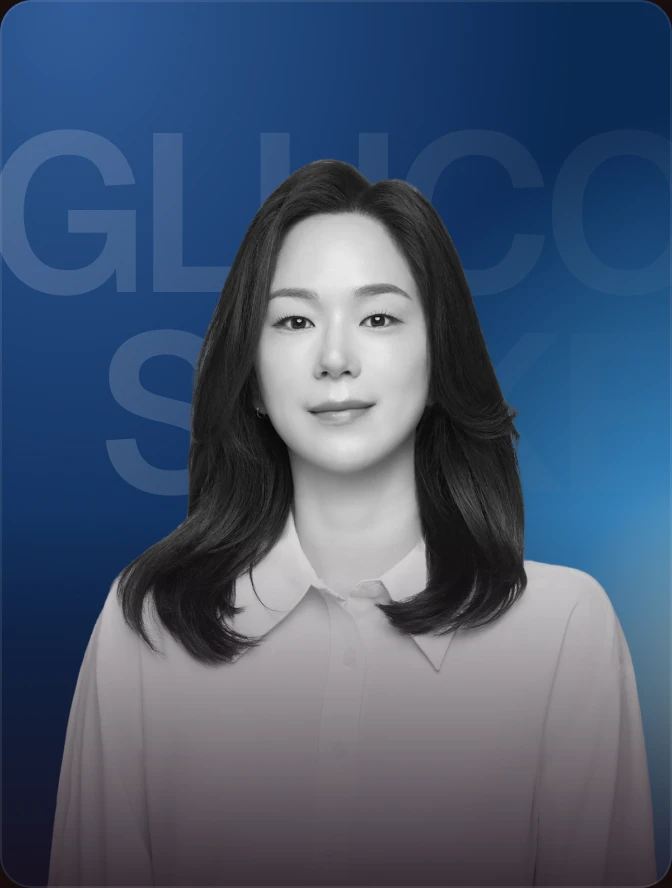
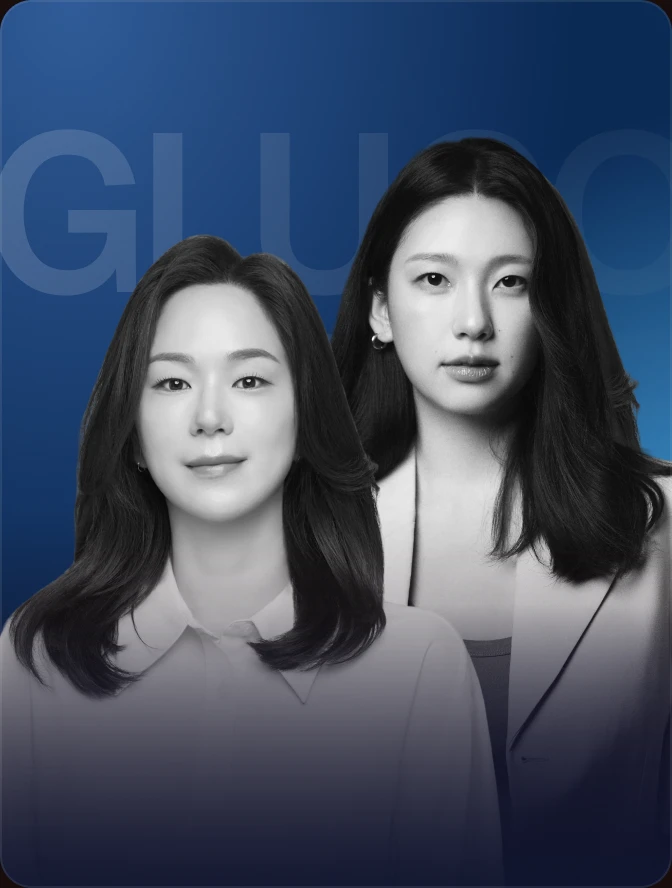
라인업: 김진경 사진 추가된 카드·노경한 카드 그라데이션·이주희 카드 피그마 반영 / 타임테이블: 김진경 프로필
Claude-Session: https://claude.ai/code/session_01R7psaqm8m7GEAGGww3SgQz

diff --git a/index.html b/index.html
@@ -903,7 +903,7 @@ try{ if('scrollRestoration' in history) history.scrollRestoration='manual'; }cat
     {id:13,t:'13:50–14:50',ti:'같은 체중, 다른 라인',tc:1,sp:[['우창윤'],['심으뜸']],nm:'우창윤 · 심으뜸',sa:'내분비내과 전문의 · 스페셜 게스트'},
     {id:14,t:'15:30–16:50',ti:'롱제비티의 마지막 퍼즐, 삶의 의미',tc:1,open:1,sp:[['오진승']],nm:'오진승',sa:'정신건강의학과 전문의'}]}];
   const esc=s=>s.replace(/&/g,'&amp;');
-  const PHOTO={'김록':'av_kimrok','찰리':'av_charlie','박재현':'av_park','홍정기':'av_hong','노경한':'av_noh','김휘승':'av_kimhs','김소영':'av_kimsy','이성곤':'av_leesg','고경하':'av_goh','심으뜸':'av_shim','박준형':'av_parkjh','박세인':'av_parksi','정희진':'av_jeonghj','김태희':'av_kimth','김세한':'av_kimsh','변상균':'av_byun','이주희':'av_lee','최예진':'av_choi','유현주':'av_yoohj','이낙준':'av_leenj','우창윤':'av_woo','오진승':'av_oh'};
+  const PHOTO={'김록':'av_kimrok','찰리':'av_charlie','박재현':'av_park','홍정기':'av_hong','노경한':'av_noh','김진경':'av_kimjk','김휘승':'av_kimhs','김소영':'av_kimsy','이성곤':'av_leesg','고경하':'av_goh','심으뜸':'av_shim','박준형':'av_parkjh','박세인':'av_parksi','정희진':'av_jeonghj','김태희':'av_kimth','김세한':'av_kimsh','변상균':'av_byun','이주희':'av_lee','최예진':'av_choi','유현주':'av_yoohj','이낙준':'av_leenj','우창윤':'av_woo','오진승':'av_oh'};
   const av=n=>{ if(n==='SMCC') return `<span class="av logo"><img src="img/smcc.png" alt="SMCC"></span>`;
     if(n==='에브리바레') return `<span class="av logo"><img src="img/everybarre.png" alt="everybarre"></span>`;
     if(n==='스페셜 게스트') return `<span class="av guest" aria-hidden="true"><svg width="20" height="20" viewBox="0 0 24 24"><path d="M12 1.5C12.7 7.4 16.6 11.3 22.5 12C16.6 12.7 12.7 16.6 12 22.5C11.3 16.6 7.4 12.7 1.5 12C7.4 11.3 11.3 7.4 12 1.5Z" fill="#7A5450"/></svg></span>`;
@@ -976,7 +976,7 @@ try{ if('scrollRestoration' in history) history.scrollRestoration='manual'; }cat
   const cardHTML=(r,clone)=>{ const ti=clone?' tabindex="-1" aria-hidden="true"':'';
     if(r[0]==='soon') return `<a class="l-card soon" href="${BOOKL}" target="_blank" rel="noopener"${ti}><div class="l-top"><span>LINEUP</span><b>COMING SOON</b></div><div class="soon-mid"><svg viewBox="0 0 24 24" width="44" height="44" aria-hidden="true"><path d="M12 1.5C12.7 7.4 16.6 11.3 22.5 12C16.6 12.7 12.7 16.6 12 22.5C11.3 16.6 7.4 12.7 1.5 12C7.4 11.3 11.3 7.4 12 1.5Z" fill="#fff"/></svg><h3>더 많은 연사가<br>곧 공개됩니다</h3></div><div class="l-bottom"><span class="l-book">롱진콘 신청하기 ↗</span></div></a>`;
     const [f,n,d,c,dt,t,[x,y,w]]=r;
-    return `<a class="l-card ${t}${r[8]?' duo':''}${n.includes(' · ')?' multi':''}" href="${f.startsWith('smcc_')?'#program':BOOKL}"${f.startsWith('smcc_')?'':' target="_blank" rel="noopener"'}${ti}><div class="l-type" aria-hidden="true"><span>${WORD[f][0]}</span><span>${WORD[f][1]}</span></div>${r[8]?`<img src="img/${r[8][0]}.webp?v=3" alt="" loading="lazy" style="left:${r[8][1]}%;top:${r[8][2]}%;width:${r[8][3]}%;filter:none">`:''}<img src="img/${f}.webp${f==='ceo_lu'?'?v=6':f.startsWith('smcc_')?'?v=3':(f==='trio_lu')?'?v=3':(f==='lee_trio'||f==='khs_duo'||f==='noh_duo')?'?v=2':(f==='woo_duo')?'?v=1':''}" alt="${clone?'':n}" loading="lazy" style="left:${x}%;top:${y}%;width:${w}%${(f==='ceo_lu'||f==='trio_lu'||f==='woo_duo'||f==='lee_trio'||f==='khs_duo'||f==='noh_duo'||f.startsWith('smcc_'))?';filter:none':''}">${r[8]?'<div style="position:absolute;left:-5.95%;top:66.89%;width:108.33%;height:36.71%;background:linear-gradient(rgba(14,46,90,0),#0E2E5A);pointer-events:none"></div>':''}${(f==='ceo_lu'||f==='trio_lu'||f==='woo_duo'||f==='lee_trio'||f==='khs_duo'||f==='noh_duo'||f.startsWith('smcc_'))?'':'<div class="scrim"></div>'}<div class="l-top"><span>${c}</span><b>${dt}</b></div><div class="l-bottom"><h3>${n}</h3><p>${d}</p><span class="l-book">${f.startsWith('smcc_')?'SMCC 별도 모집':'예매하기 ↗'}</span></div></a>`; };
+    return `<a class="l-card ${t}${r[8]?' duo':''}${n.includes(' · ')?' multi':''}" href="${f.startsWith('smcc_')?'#program':BOOKL}"${f.startsWith('smcc_')?'':' target="_blank" rel="noopener"'}${ti}><div class="l-type" aria-hidden="true"><span>${WORD[f][0]}</span><span>${WORD[f][1]}</span></div>${r[8]?`<img src="img/${r[8][0]}.webp?v=3" alt="" loading="lazy" style="left:${r[8][1]}%;top:${r[8][2]}%;width:${r[8][3]}%;filter:none">`:''}<img src="img/${f}.webp${f==='ceo_lu'?'?v=6':f.startsWith('smcc_')?'?v=3':(f==='trio_lu')?'?v=3':(f==='lee_trio'||f==='khs_duo'||f==='noh_duo')?'?v=3':(f==='woo_duo')?'?v=1':''}" alt="${clone?'':n}" loading="lazy" style="left:${x}%;top:${y}%;width:${w}%${(f==='ceo_lu'||f==='trio_lu'||f==='woo_duo'||f==='lee_trio'||f==='khs_duo'||f==='noh_duo'||f.startsWith('smcc_'))?';filter:none':''}">${r[8]?'<div style="position:absolute;left:-5.95%;top:66.89%;width:108.33%;height:36.71%;background:linear-gradient(rgba(14,46,90,0),#0E2E5A);pointer-events:none"></div>':''}${(f==='ceo_lu'||f==='trio_lu'||f==='woo_duo'||f==='lee_trio'||f==='khs_duo'||f==='noh_duo'||f.startsWith('smcc_'))?'':'<div class="scrim"></div>'}<div class="l-top"><span>${c}</span><b>${dt}</b></div><div class="l-bottom"><h3>${n}</h3><p>${d}</p><span class="l-book">${f.startsWith('smcc_')?'SMCC 별도 모집':'예매하기 ↗'}</span></div></a>`; };
   // 무한 루프: 같은 카드 세트를 앞·뒤로 한 벌씩 더 붙이고, 가운데 세트를 벗어나면 같은 위치의 가운데 카드로 몰래 점프
   rail.innerHTML=LV.map(c=>cardHTML(c,1)).join('')+LV.map(c=>cardHTML(c,0)).join('')+LV.map(c=>cardHTML(c,1)).join('');
   const cards=()=>rail.querySelectorAll('.l-card');
